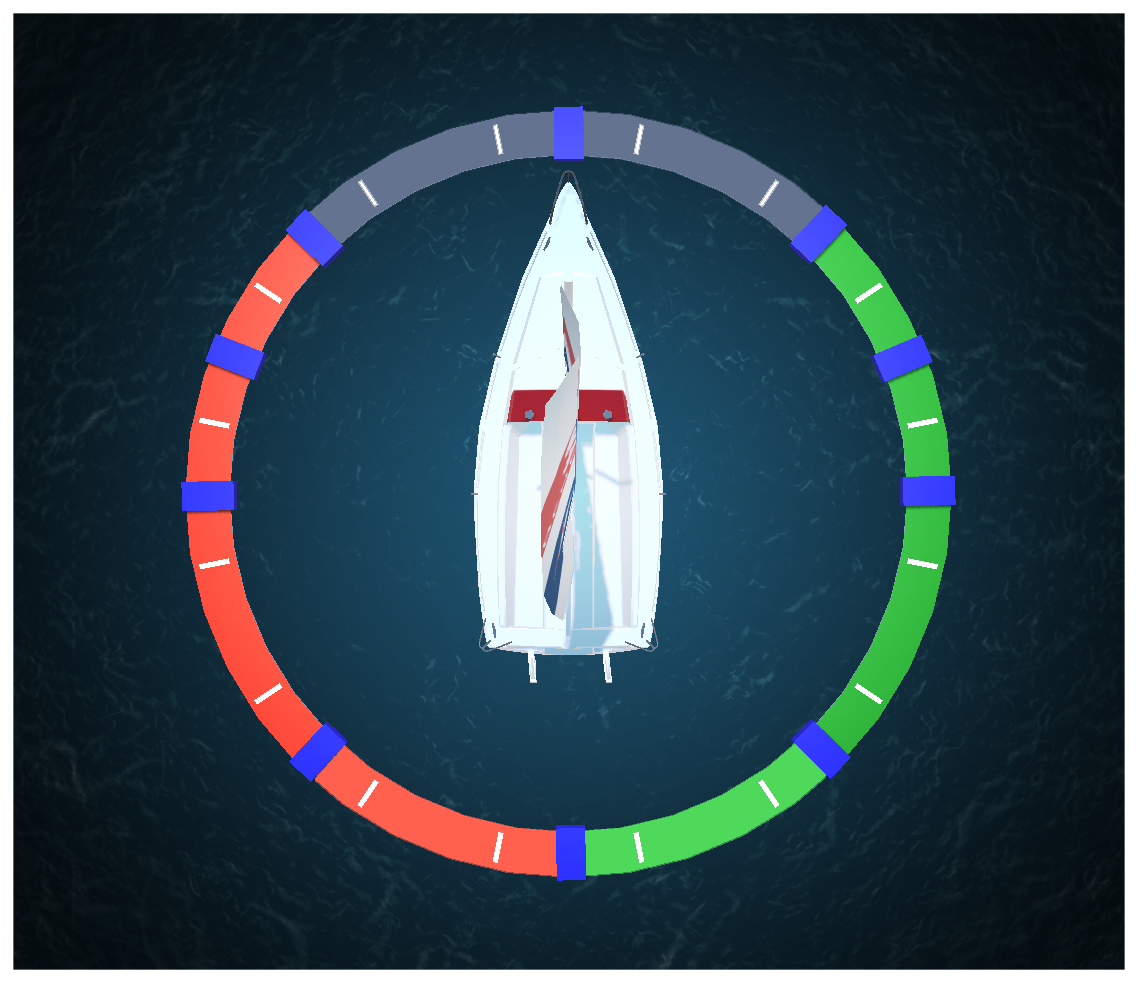
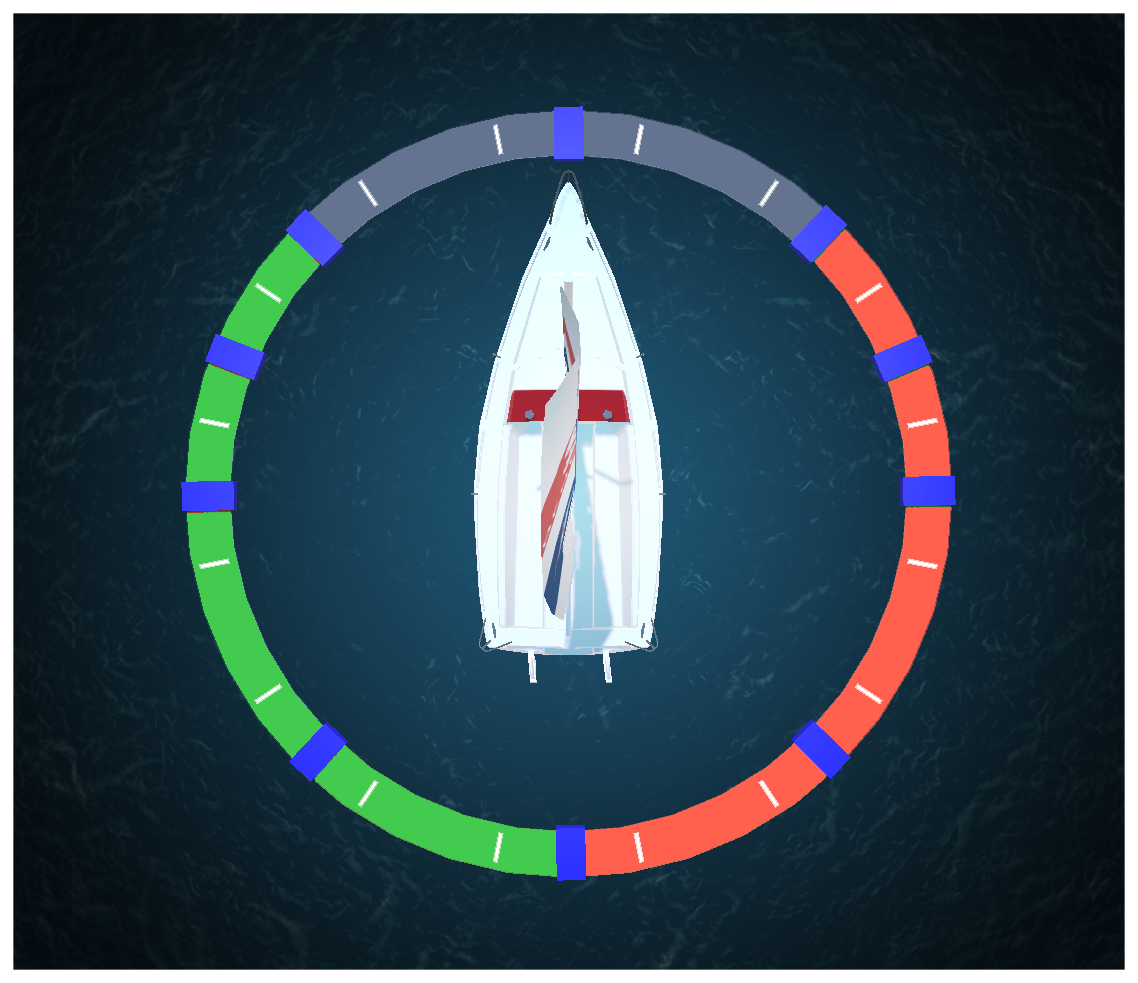
fixed boom angles

diff --git a/Assets/Scripts/Boat/ApparentWindAnimHandler.cs b/Assets/Scripts/Boat/ApparentWindAnimHandler.cs
@@ -138,14 +138,14 @@ public class ApparentWindAnimHandler : MonoBehaviour {
 						case "PTCloseHaul":
 							boatAnim.SetTrigger("PTCloseHaul");
 							pOSModuleManager.currAnimState = "Close Hauled Port Tack";
-							tackDescriptor.text = "Close Hauled on a " + "<color=#00FF00>Port tack </color>";
+							tackDescriptor.text = "Close Hauled on a " + "<color=#FF0000>Port tack </color>";
 							auxInfo.text = "The boat is sailing as close to the wind as possible (~45 degrees)";
 
 							break;
 						case "PTCloseReach":
 							boatAnim.SetTrigger("PTCloseReach");
 							pOSModuleManager.currAnimState = "Close Reach Port Tack";
-							tackDescriptor.text = "Close Reach on a " + "<color=#00FF00>Port tack </color>";
+							tackDescriptor.text = "Close Reach on a " + "<color=#FF0000>Port tack </color>";
 							auxInfo.text = "The point of sail between close-hauled and beam reach. (~60 degrees";
 
 							break;
@@ -153,7 +153,7 @@ public class ApparentWindAnimHandler : MonoBehaviour {
 						case "PTBeamReach":
 							boatAnim.SetTrigger ("PTBeamReach");
 							pOSModuleManager.currAnimState = "Beam Reach Port Tack";
-							tackDescriptor.text = "Beam Reach on a " + "<color=#00FF00>Port tack </color>"; 
+							tackDescriptor.text = "Beam Reach on a " + "<color=#FF0000>Port tack </color>"; 
 							auxInfo.text = "The wind is abeam of the boat (~90 degrees)";
 
 							break;
@@ -161,7 +161,7 @@ public class ApparentWindAnimHandler : MonoBehaviour {
 						case "PTBroadReach":
 							boatAnim.SetTrigger("PTBroadReach");
 							pOSModuleManager.currAnimState = "Broad Reach Port Tack";
-							tackDescriptor.text = "Broad Reach on a " + "<color=#00FF00>Port tack </color>"; 
+							tackDescriptor.text = "Broad Reach on a " + "<color=#FF0000>Port tack </color>"; 
 							auxInfo.text = "The point of sail between a beam reach and a run (~135 degrees)";
 							break;
 						case "Run":
@@ -175,26 +175,26 @@ public class ApparentWindAnimHandler : MonoBehaviour {
 						case "STBroadReach":
 							boatAnim.SetTrigger("STBroadReach");
 							pOSModuleManager.currAnimState = "Broad Reach Starboard Tack";
-							tackDescriptor.text = "Broad Reach on a " + "<color=#FF5C49FF>Starboard tack </color>";
+							tackDescriptor.text = "Broad Reach on a " + "<color=#00FF00>Starboard tack </color>";
 							auxInfo.text = "The point of sail between a beam reach and a run (~135 degrees)";
 							break;
 						case "STBeamReach":
 							boatAnim.SetTrigger("STBeamReach");
 							pOSModuleManager.currAnimState = "Beam Reach Starboard Tack";
-							tackDescriptor.text = "Beam Reach on a " + "<color=#FF5C49FF>Starboard tack </color>"; 
+							tackDescriptor.text = "Beam Reach on a " + "<color=#00FF00>Starboard tack </color>"; 
 							auxInfo.text = "The wind is abeam of the boat (~90 degrees)";
 
 							break;
 						case "STCloseReach":
 							boatAnim.SetTrigger("STCloseReach");
 							pOSModuleManager.currAnimState = "Close Reach Starboard Tack";
-							tackDescriptor.text = "Close Reach on a " + "<color=#FF5C49FF>Starboard tack </color>";
+							tackDescriptor.text = "Close Reach on a " + "<color=#00FF00>Starboard tack </color>";
 							auxInfo.text = "The point of sail between close-hauled and beam reach. (~60 degrees)";
 							break;
 						case "STCloseHaul":
 							boatAnim.SetTrigger("STCloseHaul");
 							pOSModuleManager.currAnimState = "Close Hauled Starboard Tack";
-							tackDescriptor.text = "Close Hauled on a " + "<color=#FF5C49FF>Starboard tack </color>";  
+							tackDescriptor.text = "Close Hauled on a " + "<color=#00FF00>Starboard tack </color>";  
 							auxInfo.text = "The boat is sailing as close to the wind as possible (~45 degrees)";
 							break;
 						}

diff --git a/Assets/Scripts/Boat/posAnimState.cs b/Assets/Scripts/Boat/posAnimState.cs
@@ -36,14 +36,14 @@ public class posAnimState : MonoBehaviour {
 				case "PTCloseHaul":
 					boatAnim.SetTrigger("PTCloseHaul");
 					moduleManager.currAnimState = "Close Hauled Port Tack";
-					displayPOS.text = "Close Hauled on a " + "<color=sFF0000> port tack </color>";
+					displayPOS.text = "Close Hauled on a " + "<color=00FF00> port tack </color>";
 					displayPOS2.text = "the boat is sailing as close to the wind as possible (~45 degrees)";
 
 					break;
 				case "PTCloseReach":
 					boatAnim.SetTrigger("PTCloseReach");
 					moduleManager.currAnimState = "Close Reach Port Tack";
-					displayPOS.text = "Close Reach on a " + "<color=#FF0000> port tack </color>";
+					displayPOS.text = "Close Reach on a " + "<color=#00FF00> port tack </color>";
 					displayPOS2.text = "the point of sail between close-hauled and beam reach. (~60 degrees";
 
 					break;
@@ -51,7 +51,7 @@ public class posAnimState : MonoBehaviour {
 				case "PTBeamReach":
 					boatAnim.SetTrigger ("PTBeamReach");
 					moduleManager.currAnimState = "Beam Reach Port Tack";
-					displayPOS.text = "Beam Reach on a " + "<color=#FF0000> port tack </color>"; 
+					displayPOS.text = "Beam Reach on a " + "<color=#00FF00> port tack </color>"; 
 					displayPOS2.text = "The wind is abeam of the boat (~90 degrees)";
 
 					break;
@@ -59,7 +59,7 @@ public class posAnimState : MonoBehaviour {
 				case "PTBroadReach":
 					boatAnim.SetTrigger("PTBroadReach");
 					moduleManager.currAnimState = "Broad Reach Port Tack";
-					displayPOS.text = "Broad Reach on a " + "<color=#FF0000> port tack </color>"; 
+					displayPOS.text = "Broad Reach on a " + "<color=#00FF00> port tack </color>"; 
 					displayPOS2.text = "The point of sail between a beam reach and a run (~135 degrees)";
 					break;
 				case "Run":
@@ -73,26 +73,26 @@ public class posAnimState : MonoBehaviour {
 				case "STBroadReach":
 					boatAnim.SetTrigger("STBroadReach");
 					moduleManager.currAnimState = "Broad Reach Starboard Tack";
-					displayPOS.text = "Broad Reach on a " + "<color=#00FF00> starboard tack </color>";
+					displayPOS.text = "Broad Reach on a " + "<color=#FF0000> starboard tack </color>";
 					displayPOS2.text = "The point of sail between a beam reach and a run (~135 degrees)";
 					break;
 				case "STBeamReach":
 					boatAnim.SetTrigger("STBeamReach");
 					moduleManager.currAnimState = "Beam Reach Starboard Tack";
-					displayPOS.text = "Beam Reach on a " + "<color=#00FF00> starboard tack </color>"; 
+					displayPOS.text = "Beam Reach on a " + "<color=#FF0000> starboard tack </color>"; 
 					displayPOS2.text = "The wind is abeam of the boat (~90 degrees)";
 
 					break;
 				case "STCloseReach":
 					boatAnim.SetTrigger("STCloseReach");
 					moduleManager.currAnimState = "Close Reach Starboard Tack";
-					displayPOS.text = "Close Reach on a " + "<color=#00FF00> starboard tack </color>";
+					displayPOS.text = "Close Reach on a " + "<color=#FF0000> starboard tack </color>";
 					displayPOS2.text = "The point of sail between close-hauled and beam reach. (~60 degrees)";
 					break;
 				case "STCloseHaul":
 					boatAnim.SetTrigger("STCloseHaul");
 					moduleManager.currAnimState = "Close Hauled Starboard Tack";
-					displayPOS.text = "Close Hauled on a " + "<color=#00FF00> starboard tack </color>";  
+					displayPOS.text = "Close Hauled on a " + "<color=#FF0000> starboard tack </color>";  
 					displayPOS2.text = "The boat is sailing as close to the wind as possible (~45 degrees)";
 					break;
 				}

diff --git a/Assets/Scripts/Managers/ApparentWindModuleManager.cs b/Assets/Scripts/Managers/ApparentWindModuleManager.cs
@@ -147,20 +147,29 @@ public class ApparentWindModuleManager : MonoBehaviour {
 
 	private void CalculateApparentWind() {
 		if( apparentWindBoatControl.currentPOS != ApparentWindBoatControl.BoatPointOfSail.InIrons ) {
-			Vector3 fakeWindVector = (boatVelocityRendererOrigin.position - windLineRendererOrigin.position).normalized;
-			Vector3 fakeBoatSpeedVector = (mastRendererPosition.position - boatVelocityRendererOrigin.position).normalized;
+			
+			float currentBoatSpeed;
+			float currentWindSpeed;
+			float angle = ApparentWindBoatControl.s_instance.transform.GetChild(0).eulerAngles.y;
+			print (angle);
 
-			if( !isWindSpeedSetToHigh ) {
-				fakeWindVector *= lowWindSpeed;
-				fakeBoatSpeedVector *= lowBoatSpeed;
-			} else {
-				fakeWindVector *= highWindSpeed;
-				fakeBoatSpeedVector *= highBoatSpeed;
+			if (angle > 180) {
+				angle -= 180;
 			}
 
-			Vector3 calculatedApparentWind = fakeWindVector + fakeBoatSpeedVector;
+			if( !isWindSpeedSetToHigh ) {
+				currentWindSpeed = lowWindSpeed;
+				currentBoatSpeed = lowBoatSpeed;
 
-			guiManager.UpdateApparentWindSpeed( calculatedApparentWind.magnitude );
+			} else {
+				currentWindSpeed = highWindSpeed;
+				currentBoatSpeed = highBoatSpeed;
+			}
+
+			Vector3 windVector = Vector3.forward * -currentWindSpeed;
+//			Vector3 boatVector = ApparentWindBoatControl.s_instance.transform.GetChild (0).eulerAngles.y;
+			float calculatedApparentWind = Mathf.Sin (angle) * currentBoatSpeed + currentWindSpeed;
+			guiManager.UpdateApparentWindSpeed( calculatedApparentWind );
 		} else {
 			if( !isWindSpeedSetToHigh ) 
 				guiManager.UpdateApparentWindSpeed( lowWindSpeed );

diff --git a/Assets/Scripts/Boat/BoatBase.cs b/Assets/Scripts/Boat/BoatBase.cs
@@ -116,10 +116,11 @@ public class BoatBase : MonoBehaviour {
 //		}
 
 		if(angleWRTWind > 182 || angleWRTWind < 178) {
-			mast.transform.localRotation = Quaternion.Lerp (Quaternion.identity, Quaternion.Inverse(transform.localRotation), 0.5f);
+			mast.transform.localRotation = Quaternion.Lerp (Quaternion.identity, Quaternion.Inverse(transform.localRotation), 0.34f);
 		}
 
 		if (angleWRTWind ==180) {
+
 			if (lastAngleWRTWind > 180) {
 				blendShape.SetFloat("sailtrim",-1f);
 

diff --git a/Assets/Scripts/Wind/WindManager.cs b/Assets/Scripts/Wind/WindManager.cs
@@ -9,8 +9,8 @@ public class WindManager : MonoBehaviour {
 
 	public static WindManager s_instance;
 	Transform[] spawnPositions;
-	public float distFromBoatToSpawn = 50f;
-	public float spawnTime = .4f;
+	float distFromBoatToSpawn = 50f;
+	float spawnTime = .6f;
 	float elapsedTime = 0f;
 	public Vector3 directionOfWind = new Vector3(0,0,1f);
 	public GameObject arrowPrefab;

diff --git a/Assets/Scripts/Wind/WindArrow.cs b/Assets/Scripts/Wind/WindArrow.cs
@@ -28,7 +28,7 @@ public class WindArrow : MonoBehaviour {
 		}
 
 //		if (NavBoatControl.s_instance == null || TrimManager.s_instance!=null) {
-			transform.Translate (Vector3.forward * .7f);
+			transform.Translate (Vector3.forward * .2f);
 //		}
 	}
 
